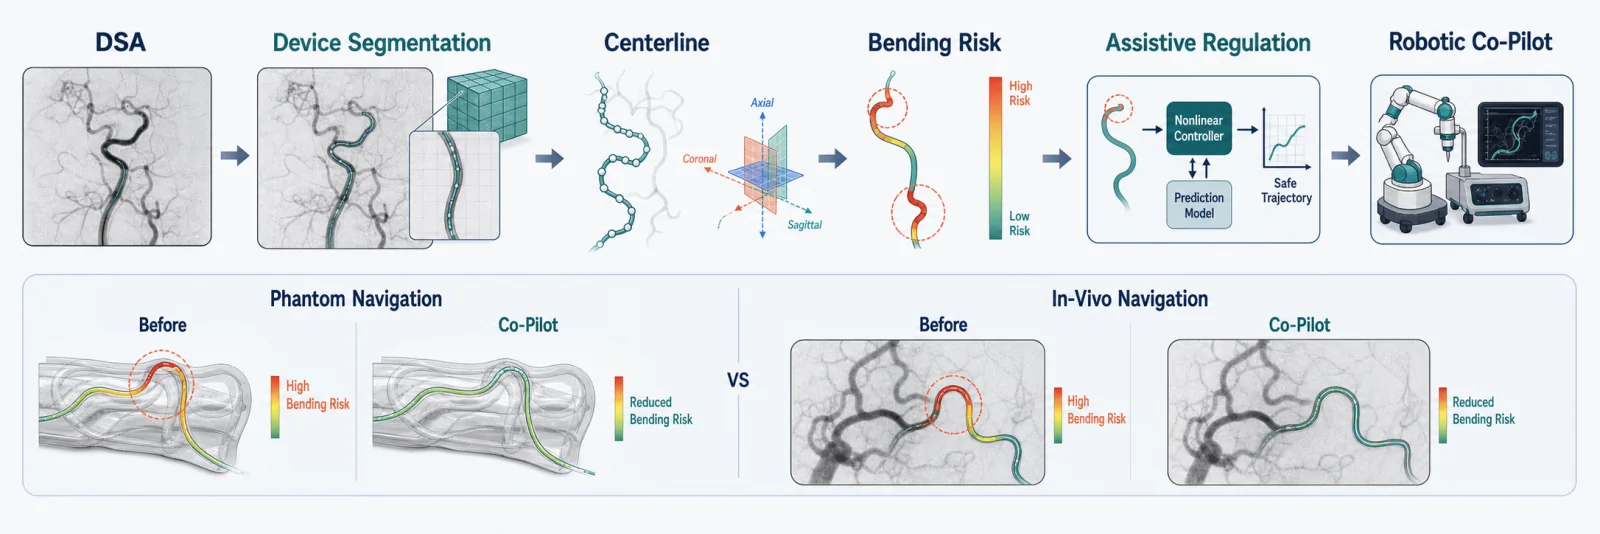
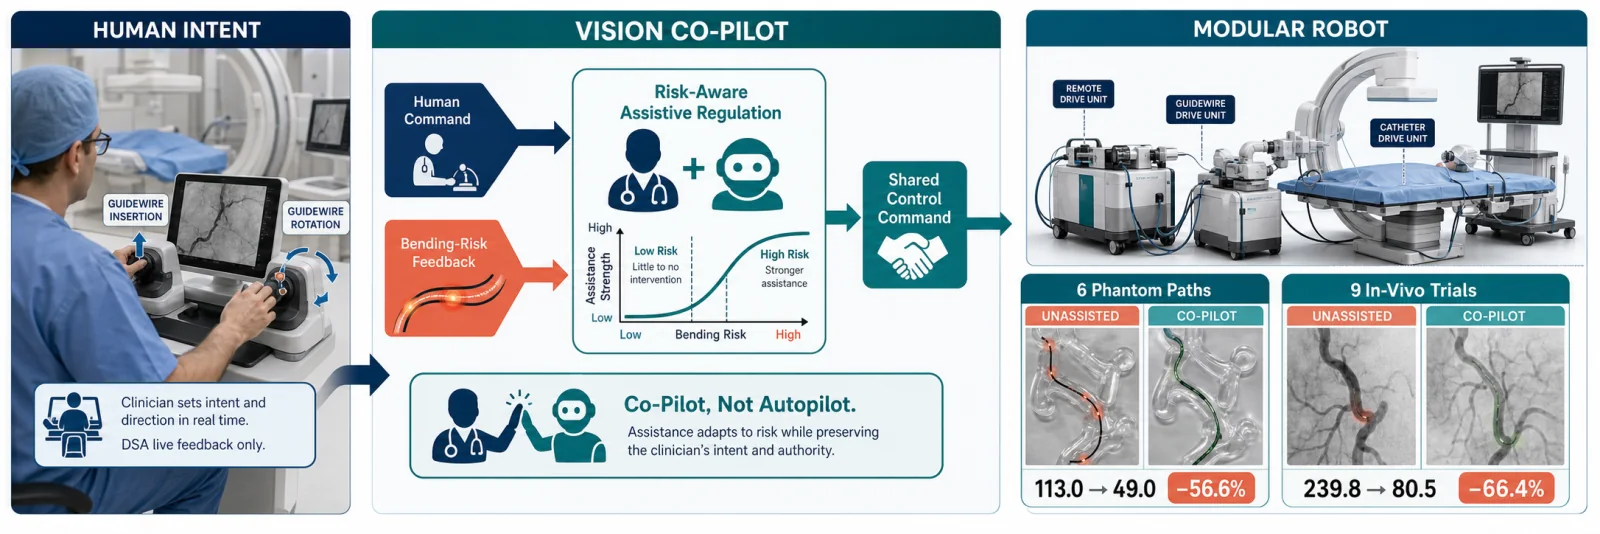
Refocus Co-Pilot publication visual

diff --git a/_pages/about.md b/_pages/about.md
@@ -67,7 +67,7 @@ Publications
 - **J. Zhu**, L. Zhu, T. Han, Y. Zhang, P. Chen, C. Li, Y. Huang, T. Zhang, D. Zhang, Z. Cai, C. Wang, A. Song, and G.-J. Teng, “Bending-Aware Vision Co-Pilot for Intelligent Robotic Assistance in Endovascular Intervention,” *IEEE Transactions on Robotics*, Early Access, pp. 1–19, 2026. [[Paper]](https://ieeexplore.ieee.org/document/11604174)
 
   <figure class="publication-visual">
-    <img src="{{ '/images/publications/bending-aware-vision-copilot-graphical-abstract.webp' | relative_url }}" alt="Graphical abstract of a bending-aware vision co-pilot that converts DSA device segmentation and centerline curvature into closed-loop robotic assistance" loading="lazy" decoding="async">
+    <img src="{{ '/images/publications/bending-aware-vision-copilot-graphical-abstract.webp' | relative_url }}" alt="Graphical abstract of a vision Co-Pilot that blends clinician intent with bending-risk-aware assistive regulation to command a modular endovascular robot, validated in phantom and in-vivo trials" loading="lazy" decoding="async">
   </figure>
 
 - P. Lyu, J. Zhang, L. Zhang, W. Liu\*, C. Wang, and **J. Zhu**\*, “Metaunetr: Rethinking token mixer encoding for efficient multi-organ segmentation,” in *International Conference on Medical Image Computing and Computer-Assisted Intervention*, Springer, 2024, pp. 446–455.[[Paper]](https://doi.org/10.1007/978-3-031-72114-4_43)[[Code]](https://github.com/lyupengju/MetaUNETR)